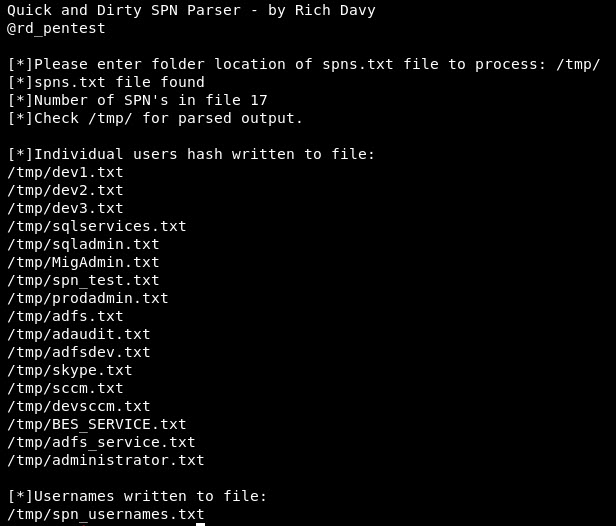
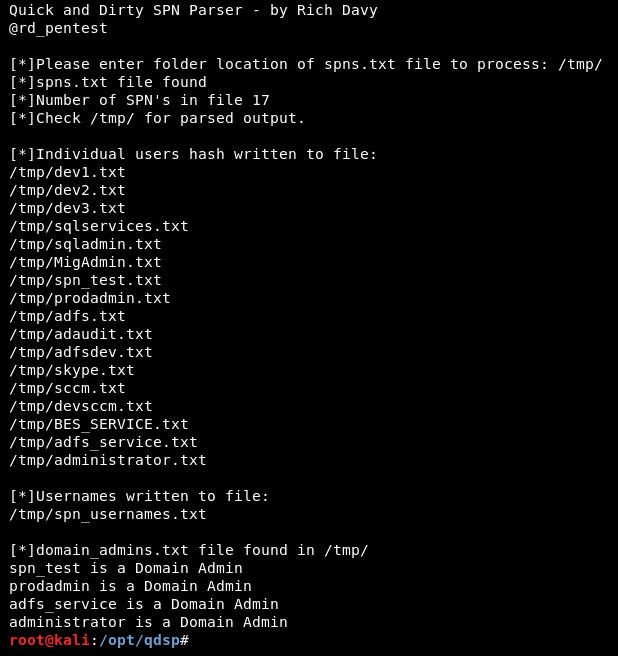
Add files via upload
Minor update, will pull in a list of domain_admins and output to screen which spns's match da list

diff --git a/qdsp.py b/qdsp.py
@@ -11,11 +11,12 @@ import os, signal
 
 def main():
 	spn_usernames = []
-
+	da_list = []
 	global DumpFolder
 
 	os.system('clear')
 	print("Quick and Dirty SPN Parser - by Rich Davy")
+	print("Version 0.1")
 	print("@rd_pentest\n")
 	DumpFolder=input ("[*]Please enter folder location of spns.txt file to process: ") or (os.getcwd())
 
@@ -58,6 +59,17 @@ def main():
 
 		print("\n[*]Usernames written to file:")
 		print(DumpFolder+"spn_usernames.txt") 
+
+		if os.path.isfile(DumpFolder+"/domain_admins.txt"):
+			print("\n[*]domain_admins.txt file found in "+DumpFolder)
+			with open(DumpFolder+"/domain_admins.txt") as fp:
+				for line in fp:
+					da_list.append(line)
+
+			for uname in spn_usernames:
+				for da in da_list:
+					if uname.rstrip()==da.rstrip():
+						print(uname +" is a Domain Admin")
 
 	else:
 		print("[!]spns.txt not found")
